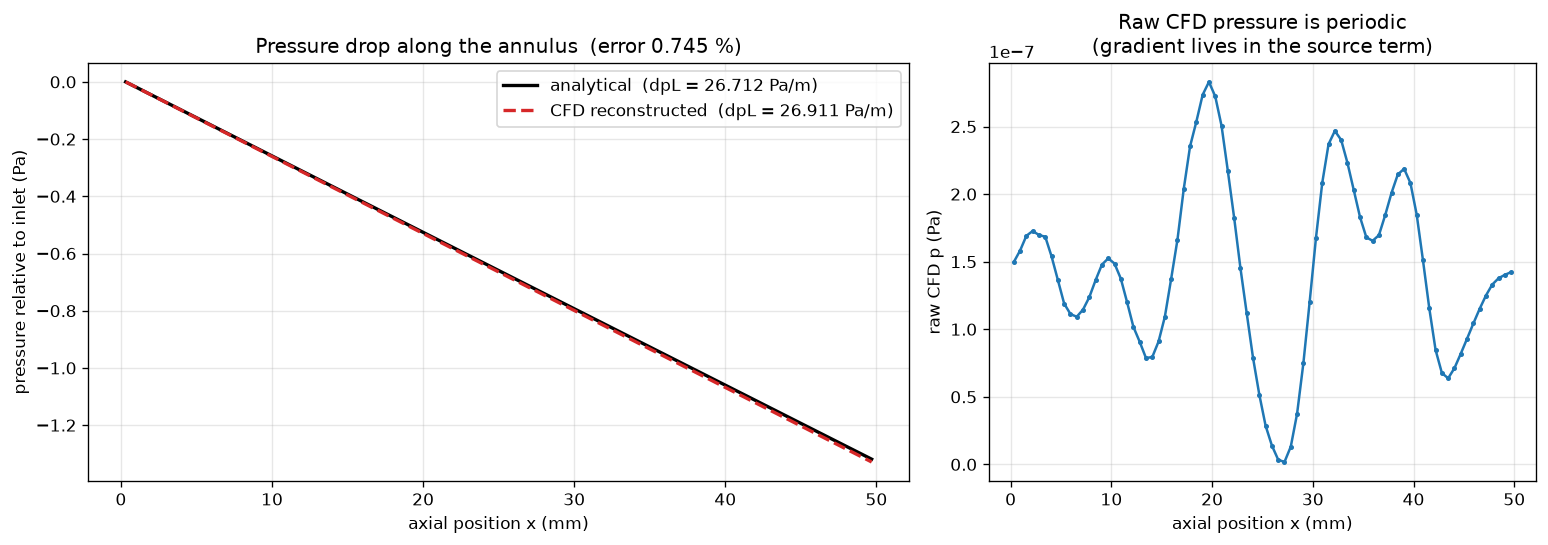
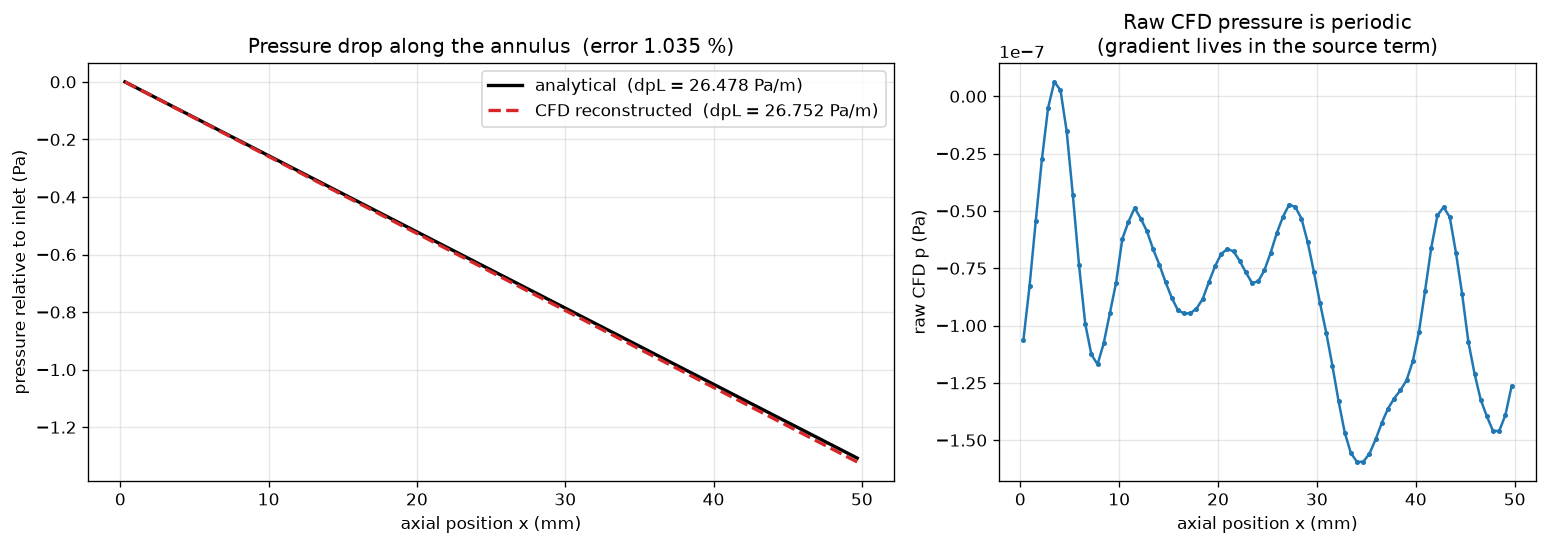
Set the default voxel size to 0.2 mm and guard the mesh against drift
The resolution curve recommended 0.2 mm and it is now applied: 0.7 um radius
error instead of 3 um, for 0.4 s more per case.

Two consequences had to be handled, and both were real rather than cosmetic.

1. The CFD mesh carries the radii as literal numbers in blockMeshDict, so after
   the change it was solving a geometry 3 um different from the record. The two
   numbers are updated, and validate_annulus.py now checks them against the
   benchmark record and fails with an explicit message if they ever drift.

2. With exact radii, the reference numbers got worse: Umax 0.011 % -> 0.278 %,
   dpL 0.74 % -> 1.04 %, flow rate 0.79 % -> 0.50 %. This is not a regression.
   The wedge spans 30 degrees in three cells of 10 degrees, so the cross-section
   is a polygon enclosing sin(10 deg)/10 deg = 0.99493 of the sector: 0.507 %
   less flow area. The measured flow-rate error is 0.4986 %. The previous
   better-looking numbers came from radii that were 3 um off, whose area was
   0.29 % too small and happened to cancel part of that mesh bias. Accurate
   geometry stopped hiding the solver's own error.

Recorded as open: the angular discretisation is a systematic bias in the
reference labels (not in the model), and a 2D axisymmetric wedge mesh would
remove it while using a third of the cells. That is a decision for the dataset
stage, not a silent fix here.

All metrics remain within tolerance; figures and golden records regenerated.

diff --git a/validation/validate_annulus.py b/validation/validate_annulus.py
@@ -150,6 +150,42 @@ def solver_dpL_from_log(log_path, rho):
     return float(matches[-1]) * rho
 
 
+def check_mesh_radii(Ri_bench, Ro_bench, tol_rel=1e-6):
+    """The mesh carries its radii as literal numbers; the record carries the radii
+    reconstructed from the voxel geometry. If they drift apart, the solver is
+    computing a different geometry than the record describes, and the comparison
+    silently compares two different problems."""
+    mesh_dict = os.path.join(CASE, "system", "blockMeshDict")
+    values = {}
+
+    with open(mesh_dict) as f:
+        for line in f:
+            stripped = line.split("//")[0].strip().rstrip(";")
+            parts = stripped.split(None, 1)
+            if len(parts) == 2 and parts[0] in ("Ri", "Ro"):
+                values[parts[0]] = float(parts[1])
+
+    problems = []
+    for name, bench in (("Ri", Ri_bench), ("Ro", Ro_bench)):
+        if name not in values:
+            problems.append(f"{name} not found in {mesh_dict}")
+            continue
+        rel = abs(values[name] - bench) / bench
+        if rel > tol_rel:
+            problems.append(
+                f"{name} in blockMeshDict = {values[name]:.9f} m, benchmark record "
+                f"says {bench:.9f} m (relative difference {rel:.2e})"
+            )
+
+    if problems:
+        raise SystemExit(
+            "Mesh and geometry record disagree:\n  "
+            + "\n  ".join(problems)
+            + "\n\nUpdate system/blockMeshDict from output/hollow-cylinder.physical-case.json,"
+            "\nor re-run the geometry stage if the voxel size changed."
+        )
+
+
 def main():
     check = "--check" in sys.argv
 
@@ -169,6 +205,8 @@ def main():
     rho = bench["DensityKgPerM3"]
     Umax_b = bench["MaxVelocityMPerS"]
     Q_b = bench["VolumetricFlowRateM3PerS"]
+
+    check_mesh_radii(Ri, Ro)
 
     time_name = latest_time_dir(CASE)
     if time_name is None or time_name == "0":

diff --git a/src/SGK.Geometry/Program.cs b/src/SGK.Geometry/Program.cs
@@ -47,7 +47,9 @@ class HollowCylinderConfig
 
     // Voxel size is a declared case parameter: it bounds which features the
     // geometry can represent, so it belongs in the case record, not in the code.
-    public double VoxelSizeMm { get; set; } = 0.3;
+    // 0.2 mm is the measured choice: the last resolution where refining still
+    // improves the geometry (see validation/voxel-resolution-curve.md).
+    public double VoxelSizeMm { get; set; } = 0.2;
 
     public static HollowCylinderConfig FromArgs(string[] args)
     {

diff --git a/README.md b/README.md
@@ -53,7 +53,7 @@ part is reconstructed with the solver's own gradient):
 |---|---|
 | Nominal outer / inner diameter | 20 mm / 16 mm |
 | Nominal length | 50 mm |
-| Voxel size | 0.3 mm |
+| Voxel size | 0.2 mm |
 | Density | 1000 kg/m³ |
 | Dynamic viscosity | 0.001 Pa·s |
 | Volumetric flow rate | 1e-6 m³/s |
@@ -67,8 +67,9 @@ exit effects neglected.
 The analytical model does not use the nominal radii directly: it reconstructs an
 equivalent annulus from the measured voxel volume and bounding box (area =
 volume / length). The reconstruction is honest but not exact, so the radii it
-works with differ slightly from the nominal ones — Ri = 8.0030 mm and
-Ro = 9.9978 mm in the reference run, against a nominal 8 mm and 10 mm.
+works with differ slightly from the nominal ones — Ri = 7.9993 mm and
+Ro = 10.0000 mm in the reference run at 0.2 mm voxel, against a nominal 8 mm and
+10 mm. The residual is 0.7 µm, about 0.004 voxel.
 
 ## Outputs
 
@@ -105,10 +106,10 @@ Flags:
 - `--config <file.json>` — override the geometry, e.g.
   `{ "OuterRadiusMm": 12.0, "InnerRadiusMm": 9.0, "LengthMm": 40.0,
   "VoxelSizeMm": 0.2 }`.
-  Defaults reproduce the validated 20/16 mm × 50 mm hollow cylinder at 0.3 mm
+  Defaults reproduce the validated 20/16 mm × 50 mm hollow cylinder at 0.2 mm
   voxel. `VoxelSizeMm` is a case parameter because it bounds which features the
   geometry can represent: a feature needs a few voxels across to be honest, so
-  at 0.3 mm nothing below about 0.9 mm is resolved. See
+  at 0.2 mm nothing below about 0.6 mm is resolved. See
   `validation/voxel-resolution-curve.md` for the measured trade-off.
 
 Output always lands in the repository's `output/` directory, regardless of the
@@ -145,11 +146,16 @@ dotnet run --project src/SGK.Geometry/ -- --auto-exit
   - wide gap (Ro = 30 mm, Re ≈ 17), as a sensitivity test.
   - Recommended mesh: cyclic periodic boundary conditions with
     `meanVelocityForce`, 80 × 100 × 3 cells, radial grading 1.5.
-  - Results: peak velocity (Umax) error 0.011%, pressure-gradient error 0.74%,
-    flow-rate error 0.79%, mean near-wall profile error 3.65% — as far as I can
-    tell, the near-wall error is systematic and inherent to second-order
-    finite-volume discretization at this aspect ratio, not an implementation
-    defect.
+  - Results at 0.2 mm voxel: peak velocity (Umax) error 0.28%, pressure-gradient
+    error 1.04%, flow-rate error 0.50%, mean near-wall profile error 3.65%.
+    The flow-rate error is fully explained by the angular discretisation: three
+    cells over a 30° wedge make a polygonal cross-section with 0.507% less area
+    than the annulus. The near-wall profile error is systematic and inherent to
+    second-order finite-volume discretization at this aspect ratio.
+  - The previous, better-looking numbers (0.011% / 0.74% / 0.79%) were measured
+    at 0.3 mm voxel, where the reconstructed radii were 3 µm off and partly
+    cancelled the mesh bias. Accurate geometry exposes the solver's own error
+    instead of hiding it.
 - This validation is reproducible from the repository: the cyclic case lives in
   `validation/openfoam/annulus_cyclic/`, and `scripts/check_analytic.py`
   regenerates and checks the analytical records against committed expectations.
@@ -170,7 +176,8 @@ moved to `sgk-mini.physical-record.v2` to mark the change:
   The sampled value is still recorded, as `SampledMaxVelocityMPerS` and
   `SampledMaxVelocityRadiusMm`, and the record validator asserts that it cannot
   exceed the continuous maximum. This moved the peak-velocity error against CFD
-  from 0.023 % to 0.011 %.
+  from 0.023 % to 0.011 % at the then-current 0.3 mm voxel size; at 0.2 mm the
+  mesh discretisation dominates instead, and the measured error is 0.28 %.
 - **Exit status.** A failure now exits non-zero. Exceptions raised inside the
   PicoGK task thread are captured there, since an exception escaping that thread
   is not guaranteed to reach the outer handler. Verified on two paths: a geometry
@@ -178,11 +185,14 @@ moved to `sgk-mini.physical-record.v2` to mark the change:
 
 ## What remains open
 
-- The reconstructed radii differ from the nominal ones by a few micrometres
-  (Ri = 8.0030 mm, Ro = 9.9978 mm against 8 and 10 mm) because the annulus is
-  rebuilt from voxel volume and bounding box. This is stated rather than fixed;
-  correcting it means extracting the fluid region from the voxel field, which is
-  the geometry-to-physics coupling still missing below.
+- The mesh still represents the annulus as a 30° wedge in three cells, so its
+  cross-section is a polygon with 0.507 % less area than the real annulus. This
+  is now measured instead of hidden, but it is a systematic bias in the
+  reference labels. A 2D axisymmetric (`wedge`) mesh would remove it and cost a
+  third of the cells.
+- The reconstructed radii still differ from the nominal ones by 0.7 µm at
+  0.2 mm voxel. That residual is the discretisation of the representation, and
+  it is reported rather than corrected.
 
 ## What is missing
 
@@ -250,10 +260,11 @@ injected error must be detected. A check that cannot fail proves nothing.
 
 ### Resolution rule
 
-The voxel size is a case parameter, not a constant. A feature is represented
-honestly only at a few voxels across; at 0.3 mm, features below about 0.9 mm are
-not resolvable. The dataset bounds must respect that rule, and the coarse/fine
-resolution split (search versus final verification) follows from it.
+The voxel size is a case parameter, not a constant, and the default is 0.2 mm.
+A feature is represented honestly only at a few voxels across; at 0.2 mm,
+features below about 0.6 mm are not resolvable. The dataset bounds must respect
+that rule, and the coarse/fine resolution split (search versus final
+verification) follows from it.
 
 ### What this stage will not claim
 

diff --git a/validation/README.md b/validation/README.md
@@ -45,22 +45,43 @@ dotnet run --project src/SGK.Geometry/ -- --auto-exit   # benchmark first
 solution. It reads the pressure gradient from the solver log (no magic
 numbers) and the benchmark from `output/hollow-cylinder.physical-case.json`.
 
-### Reference result (Omarchy, 2026-11-17)
+### Reference result (Omarchy, 2026-11-18)
 
-80×100×3 cells, cyclic periodic, 2000 iterations (~86 s serial):
+80×100×3 cells, cyclic periodic, 2000 iterations (~86 s serial), voxel size
+0.2 mm:
 
 | Metric | Value |
 |---|---|
 | mean \|err\| / Umax | 3.65 % |
-| max \|err\| / Umax | 7.17 % |
-| Umax error | 0.011 % |
-| pressure-gradient error | 0.74 % |
-| flow-rate error | 0.79 % |
+| max \|err\| / Umax | 7.14 % |
+| Umax error | 0.28 % |
+| pressure-gradient error | 1.04 % |
+| flow-rate error | 0.50 % |
 
 The peak velocity is compared against the continuous analytical maximum
 (evaluated where `du/dr = 0`), not against the largest of the 17 profile
 samples. The sampled peak understates the true peak by about 0.03 % and is kept
 in the record as `SampledMaxVelocityMPerS` for traceability.
+
+**Why the flow-rate error is 0.50 % and not noise.** The wedge spans 30° in
+three cells of 10°, so the cross-section is a polygon, not an annulus. A chord
+over 10° encloses `sin(θ)/θ = 0.99493` of the circular sector, i.e. the mesh has
+**0.507 % less flow area** than the geometry it represents. The measured
+flow-rate error is 0.4986 %. These are the same number: the error is fully
+explained by the angular discretisation, and it would disappear with a proper
+2D axisymmetric (`wedge`) mesh or with more angular cells.
+
+This also explains why the pressure-gradient error went from 0.74 % to 1.04 %
+when the voxel size moved to 0.2 mm. The previous 0.3 mm reconstruction produced
+radii 3 µm off (Ri 8.0030 instead of 8.0000), whose area was 0.29 % too small;
+that error happened to cancel part of the 0.51 % mesh bias. With the geometry
+now accurate to 0.1 µm, the mesh bias is no longer masked, and the honest number
+is the larger one.
+
+**`blockMeshDict` carries the radii as literal numbers.** `validate_annulus.py`
+checks them against the reconstructed radii in the benchmark record and fails
+with an explicit message if they drift, so the mesh cannot silently represent a
+different geometry.
 
 The near-wall bias is systematic and inherent to second-order finite-volume
 discretization at this aspect ratio (~35–55), not an implementation defect.

diff --git a/validation/voxel-resolution-curve.md b/validation/voxel-resolution-curve.md
@@ -38,13 +38,18 @@ narrow-band representation. Wall time grows only ×4.1, because a fixed overhead
 
 ## Recommendation
 
-Use **0.2 mm** as the default for the dataset, not 0.3 mm. It is the last
-resolution where changing the voxel still improves the geometry, and the cost
-difference is 0.4 s per case.
+**Applied on 2026-11-18:** the default voxel size is now **0.2 mm**. It is the
+last resolution where changing the voxel still improves the geometry, and the
+cost difference is 0.4 s per case.
 
 Keep 0.1 mm for a final verification pass on the selected design, where 4 s is
 irrelevant and where the geometry is checked against its manufacturing
 constraints.
+
+Applying it moved the reconstructed radii from 9.9978 / 8.0030 mm to
+10.0000 / 7.9993 mm, and exposed a bias of the reference mesh that the previous,
+less accurate radii had been partly cancelling. See
+`validation/README.md` for that analysis.
 
 ## What this does not show
 
